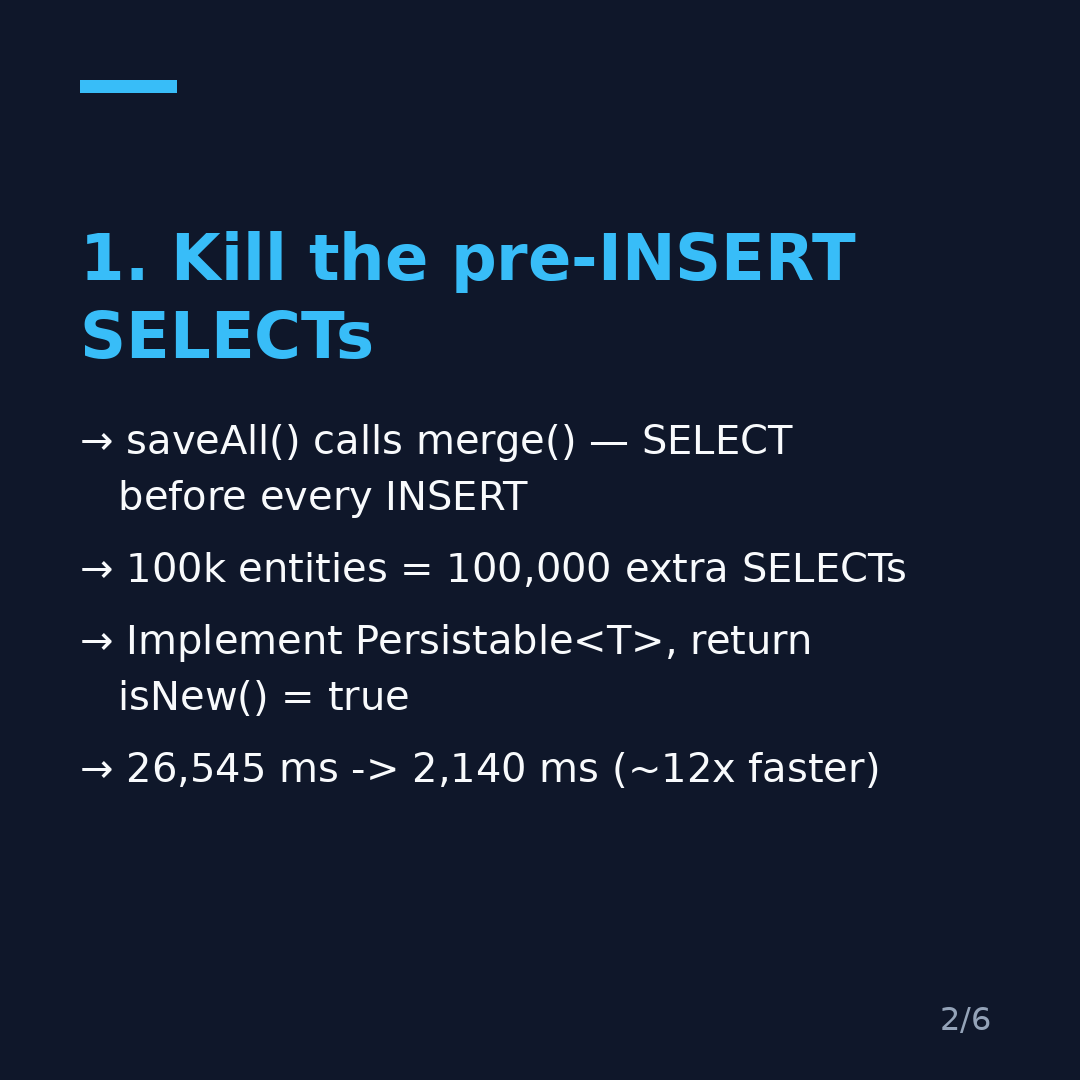
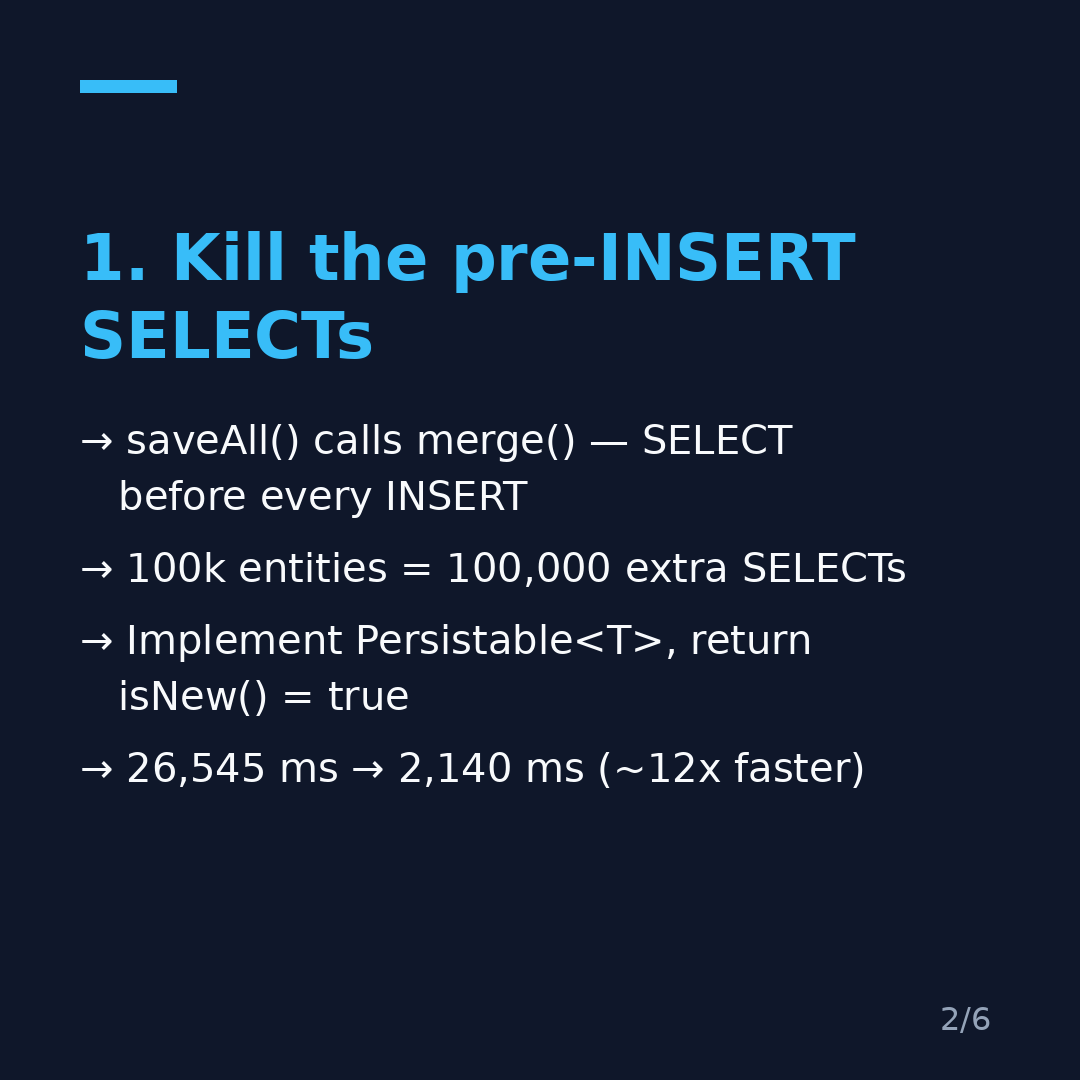
deploy: a8486ad2e20a62a2b23ea86fb9be632c4688b7d8

Changed region(s): [[0.3361, 0.6722, 0.825, 0.7333]]

diff --git a/post/java/mssqlserver/fast_insert_part5/out/generate_carousel.py b/post/java/mssqlserver/fast_insert_part5/out/generate_carousel.py
@@ -30,7 +30,7 @@ SLIDES = [
         "saveAll() calls merge() — SELECT before every INSERT",
         "100k entities = 100,000 extra SELECTs",
         "Implement Persistable<T>, return isNew() = true",
-        "26,545 ms -> 2,140 ms (~12x faster)",
+        "26,545 ms → 2,140 ms (~12x faster)",
     ]},
     {"kind": "content", "headline": "2. StatelessSession = bare metal", "lines": [
         "Drops L1 cache, dirty checking, cascading",
@@ -40,7 +40,7 @@ SLIDES = [
     {"kind": "content", "headline": "3. Turn on the bulkCopy flag", "lines": [
         "URL flag: useBulkCopyForBatchInsert=true",
         "Batches become one Bulk Copy stream each",
-        "StatelessSession: 1,850 -> 646 ms (2.9x)",
+        "StatelessSession: 1,850 ms → 646 ms (2.9x)",
         "Only ~30% off raw Bulk API (499 ms)",
     ]},
     {"kind": "content", "headline": "Then tune jdbc.batch_size", "lines": [
@@ -50,7 +50,7 @@ SLIDES = [
     ]},
     {"kind": "cta",
      "headline": "Full benchmarks + code",
-     "sub": "mmarko88.github.io — link in comments\ngithub.com/mmarko88/blog-examples"},
+     "sub": "professionaldev.dev — link in comments\ngithub.com/mmarko88/blog-examples"},
 ]
 
 # Tuned so no rendered line exceeds SIZE - 2*MARGIN (920 px) in DejaVu:
